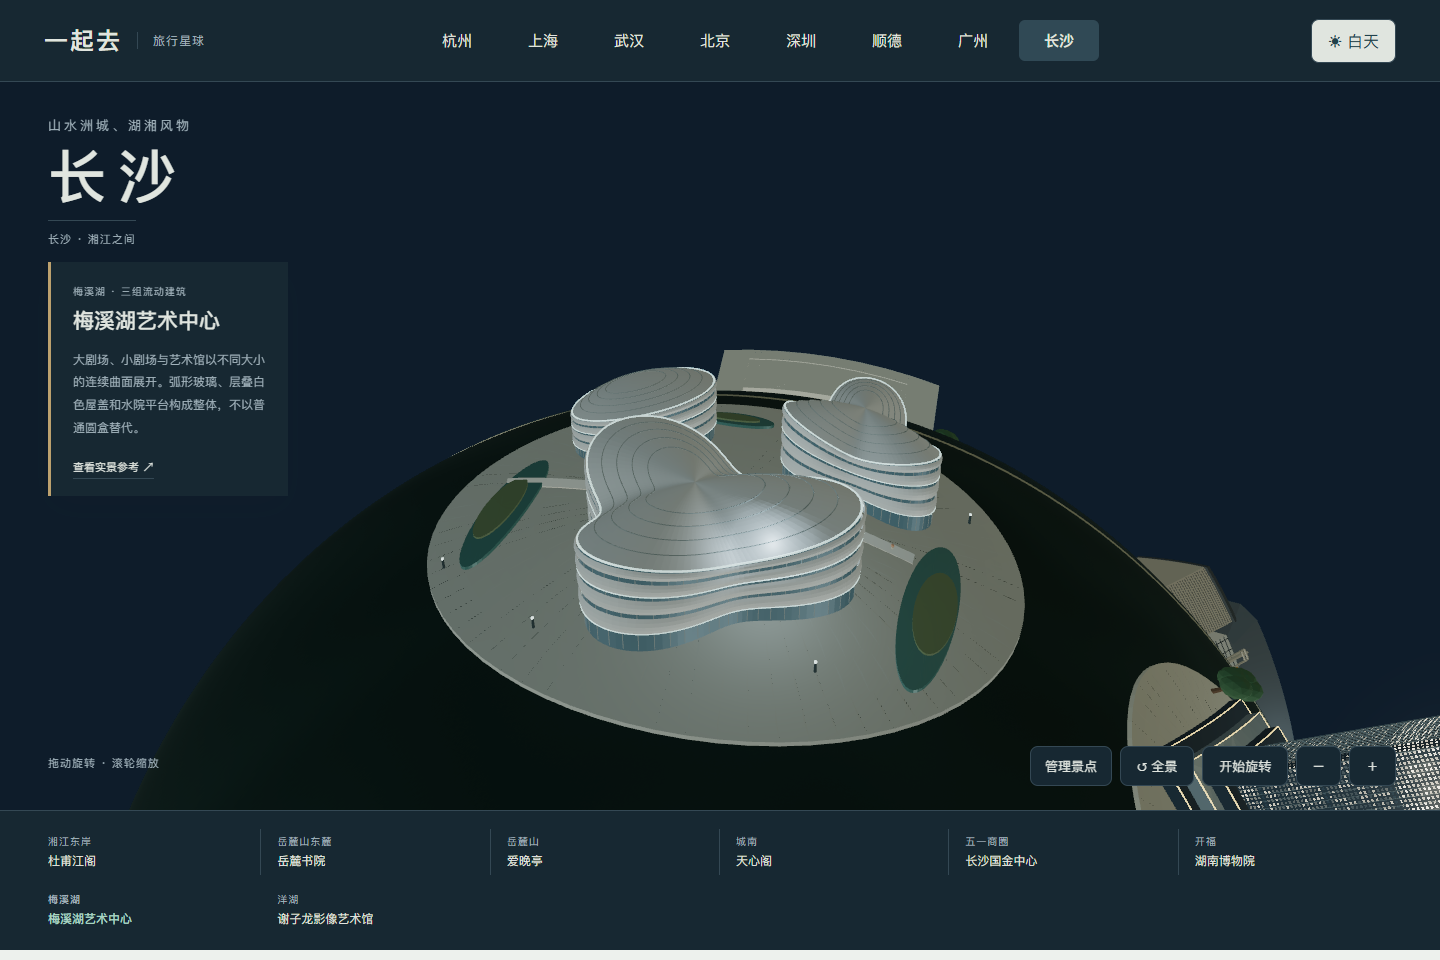
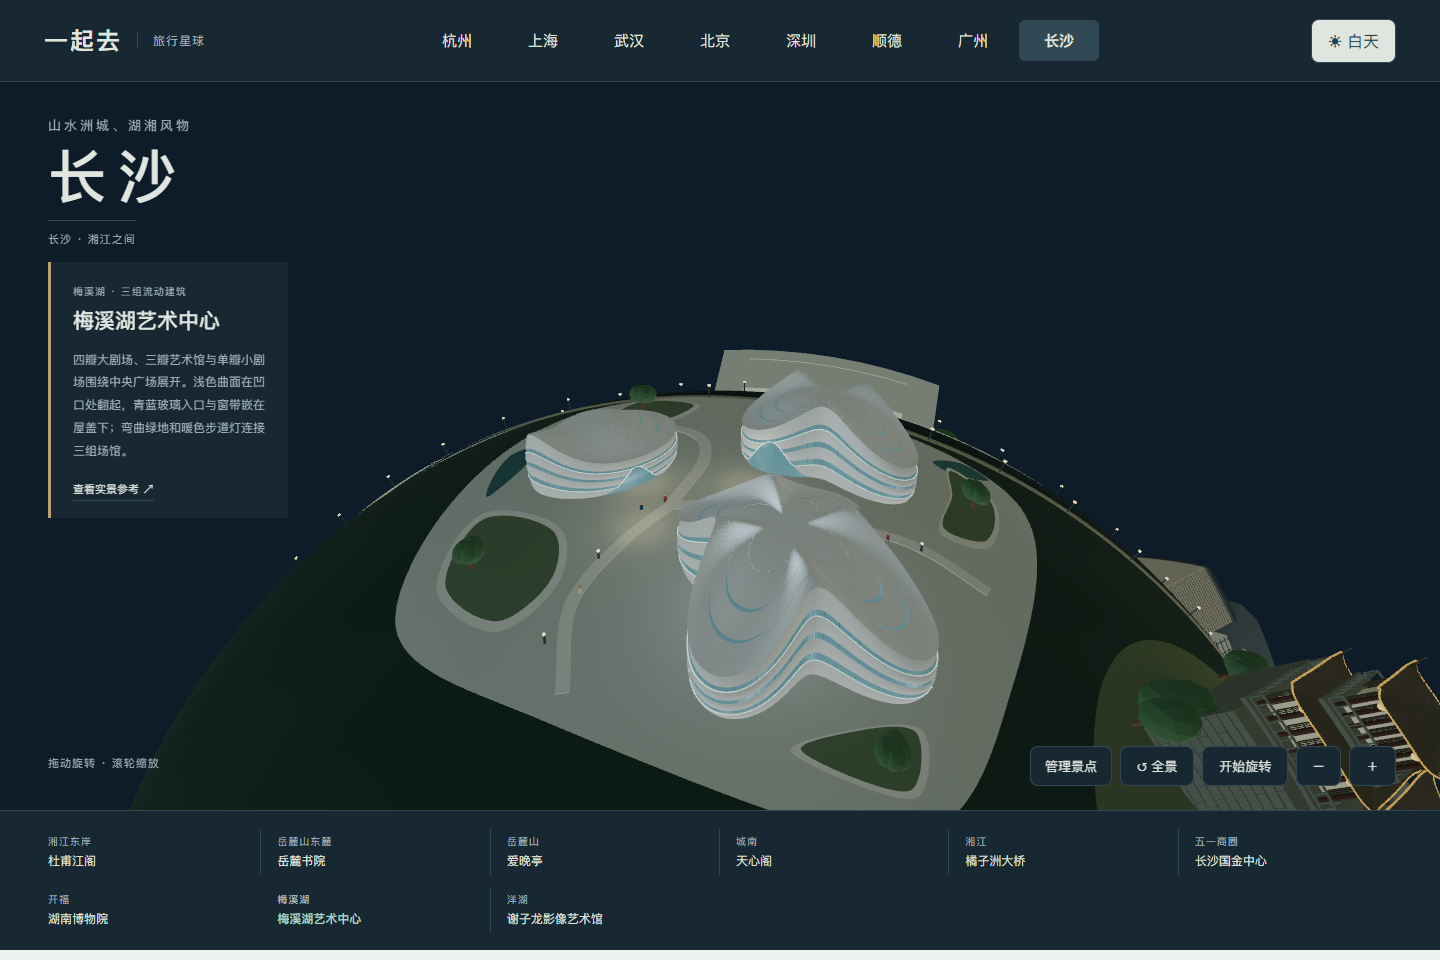
Refine Meixi venues, folded roofs and connected forecourt

diff --git a/web/changsha-meixi.js b/web/changsha-meixi.js
@@ -1,0 +1,109 @@
+import * as THREE from 'three';
+import {skin,bollards,people,glow} from './shenzhen-forms.js';
+import {tree} from './wuhan-architecture.js';
+
+const TAU=Math.PI*2;
+const angleDistance=(a,b)=>Math.atan2(Math.sin(a-b),Math.cos(a-b));
+// Three independent buildings surround one public court: four, three and one
+// unequal petals. Concave folds rise; the broad petal ends sweep down and out.
+export const VENUES=[
+  {id:'grand',x:.26,z:.28,r:.295,stretch:1.10,lobes:4,turn:.24,h:.29,entry:-2.45},
+  {id:'gallery',x:.20,z:-.38,r:.225,stretch:1.08,lobes:3,turn:.41,h:.25,entry:2.1},
+  {id:'small',x:-.43,z:-.10,r:.18,stretch:1.28,lobes:1,turn:-.42,h:.20,entry:.55},
+];
+function contour(a,q){
+  const lobe=q.lobes===1?.93+.17*Math.cos(a):.86+.28*Math.cos(q.lobes*a)+.055*Math.sin(a+.3);
+  const asymmetry=q.lobes===1?1:.94+.16*Math.cos(a-.6);
+  const radial=q.r*lobe*asymmetry,xx=Math.cos(a)*radial*q.stretch,zz=Math.sin(a)*radial;
+  return [q.x+xx*Math.cos(q.turn)-zz*Math.sin(q.turn),q.z+xx*Math.sin(q.turn)+zz*Math.cos(q.turn)];
+}
+function fold(a,q){
+  if(q.lobes===1)return .48+.52*Math.exp(-((angleDistance(a,2.45)/.75)**2));
+  const valley=Math.pow((1-Math.cos(q.lobes*a))/2,1.25);return .50+.46*valley;
+}
+function roofHeight(a,r,q){
+  const center=.83,edge=fold(a,q),t=THREE.MathUtils.clamp((r-.22)/.78,0,1),blend=t*t*(3-2*t);
+  return .028+q.h*(center*(1-blend)+edge*blend);
+}
+function point(a,r,y,q){const [x,z]=contour(a,q);return [q.x+(x-q.x)*r,y,q.z+(z-q.z)*r];}
+function venue(k,g,q,p){
+  const glass=k.mat('#477d89',.45,.13,'#9cc7d0');glass.userData.night.intensity=.22;
+  const shell=k.mat('#d8dedb',.84,.06),joint=k.mat('#bac5c1',.90),reveal=k.mat('#809c9e',.72,.08);
+  const roofMaterial=k.mat('#d8dedb',.94,.018);roofMaterial.userData.meixiRoof=q.id;
+  shell.userData.venue=q.id;glass.userData.venue=q.id;
+  const edgeY=a=>roofHeight(a,1,q);
+  const entryCut=a=>.72*Math.exp(-((angleDistance(a+q.turn,q.entry)/.22)**2));
+  const wallPoint=(a,f,offset=0)=>point(a,.95+.05*Math.sin(f*Math.PI)+offset,.024+(edgeY(a)-.024)*f,q);
+  skin(k,g,(u,v)=>wallPoint(u*TAU,v),32,160,glass);
+  for(const [lo,hi]of [[0,.20],[.29,.46],[.53,.70],[.76,1]]){
+    skin(k,g,(u,v)=>{const a=u*TAU,cut=entryCut(a),f=THREE.MathUtils.lerp(Math.max(lo,cut),Math.max(hi,cut),v);return wallPoint(a,f,.007+.006*Math.sin(v*Math.PI));},10,160,shell);
+  }
+  // A closed fan roof avoids the central hole and the extruded-cookie profile.
+  const pos=[q.x,roofHeight(0,0,q),q.z],idx=[];
+  for(let j=1;j<=40;j++)for(let i=0;i<=160;i++){
+    const a=i/160*TAU,r=j/40;pos.push(...point(a,r,roofHeight(a,r,q),q));
+    if(i){const n=1+(j-1)*161+i;if(j===1)idx.push(0,n,n-1);else idx.push(n-162,n-161,n-1,n-161,n,n-1);}
+  }
+  const roofGeo=new THREE.BufferGeometry();roofGeo.setAttribute('position',new THREE.Float32BufferAttribute(pos,3));roofGeo.setIndex(idx);roofGeo.computeVertexNormals();k.mesh(g,roofGeo,roofMaterial);
+  // Sparse curved panel joints stay quiet. Short dark skylight slits belong to
+  // the individual petals, rather than full concentric circles around the roof.
+  for(const radius of [.40,.62,.82])k.line(g,Array.from({length:161},(_,i)=>{const a=i/160*TAU;return point(a,radius,roofHeight(a,radius,q)+.001,q);}),.00045,joint,true);
+  const skylights=[];
+  for(let l=0;l<q.lobes;l++)for(const r of [.62,.79]){
+    const center=l*TAU/q.lobes,span=q.lobes===1?.98:.68;
+    skin(k,g,(u,v)=>{const a=center+(u-.5)*span,rr=r+(v-.5)*.022*Math.sin(u*Math.PI);return point(a,rr,roofHeight(a,rr,q)+.0016,q);},4,28,glass);skylights.push([center,r]);
+  }
+  for(let i=0;i<54;i++){
+    const a=i/54*TAU;
+    for(const [lo,hi]of [[.20,.29],[.46,.53],[.70,.76]])k.beam(g,wallPoint(a,lo,.001),wallPoint(a,hi,.001),.0007,reveal,4);
+  }
+  // The high glazed entry faces the shared court; mullions follow its arch.
+  for(let i=-4;i<=4;i++){
+    const a=q.entry-q.turn+i*.035,top=entryCut(a);
+    if(top>.05)k.beam(g,wallPoint(a,.015,.001),wallPoint(a,top,.001),.0011,joint,4);
+  }
+  for(const f of [.20,.70]){
+    const strip=[];for(let i=0;i<=160;i++){const a=i/160*TAU;strip.push(wallPoint(a,Math.max(f,entryCut(a)),.014));}k.line(g,strip,.0011,p.cool,true);
+  }
+  const outline=Array.from({length:160},(_,i)=>contour(i/160*TAU,q));return {...q,outline,skylights};
+}
+function smoothOutline(points){const curve=new THREE.CatmullRomCurve3(points.map(([x,z])=>new THREE.Vector3(x,0,z)),true,'centripetal');return curve.getPoints(128).slice(0,-1).map(v=>[v.x,v.z]);}
+function flatPatch(k,g,points,y,mat){
+  const shape=new THREE.Shape(points.map(([x,z])=>new THREE.Vector2(x,-z))),geo=new THREE.ShapeGeometry(shape,32);geo.rotateX(-Math.PI/2);geo.translate(0,y,0);return k.mesh(g,geo,mat);
+}
+export function meixi(k){
+  const g=new THREE.Group(),p={stone:k.mat('#bcc4ba',.96),curb:k.mat('#d4d9ce',.92),green:k.mat('#72886a',.96),water:k.mat('#517f7d',.55,.10),cool:glow(k,'#c5e3df',.50,3,.30),warm:glow(k,'#e8d3ad',.70)},buildings=[];
+  p.stone.userData.groundSurface=true;
+  const site=smoothOutline([[-.73,.50],[-.18,.73],[.69,.69],[.83,.24],[.74,-.59],[.12,-.76],[-.69,-.55]].reverse());
+  // Regular radial subdivisions keep the slab flush when wrapped onto the globe.
+  const pos=[0,.016,0],idx=[];
+  for(let ring=1;ring<=30;ring++)for(let i=0;i<=128;i++){
+    const [x,z]=site[i%128];pos.push(x*ring/30,.016,z*ring/30);
+    if(i){const n=1+(ring-1)*129+i;if(ring===1)idx.push(0,n,n-1);else idx.push(n-130,n-129,n-1,n-129,n,n-1);}
+  }
+  const floor=new THREE.BufferGeometry();floor.setAttribute('position',new THREE.Float32BufferAttribute(pos,3));floor.setIndex(idx);floor.computeVertexNormals();k.mesh(g,floor,p.stone);
+  for(const q of VENUES)buildings.push(venue(k,g,q,p));
+  const beds=[
+    [[-.67,.12],[-.39,.18],[-.31,.38],[-.40,.53],[-.65,.41]],
+    [[-.52,-.48],[-.32,-.42],[-.27,-.60],[-.49,-.63]],
+    [[.54,-.58],[.69,-.48],[.70,-.20],[.58,-.17],[.57,-.39]],
+    [[.65,.47],[.67,.62],[.38,.64],[.47,.56]],
+  ];
+  for(const control of beds){
+    const border=smoothOutline(control);flatPatch(k,g,border,.023,p.curb);const center=border.reduce((a,b)=>[a[0]+b[0]/border.length,a[1]+b[1]/border.length],[0,0]);flatPatch(k,g,border.map(([x,z])=>[center[0]+(x-center[0])*.87,center[1]+(z-center[1])*.87]),.027,p.green);
+  }
+  // Dark sunken courts sit at the perimeter, leaving the central plaza open.
+  for(const control of [ [[-.70,.03],[-.66,-.10],[-.67,-.27],[-.75,-.22]], [[.57,-.67],[.66,-.63],[.55,-.55],[.49,-.58]] ])flatPatch(k,g,smoothOutline(control),.020,p.water);
+  const paths=[[[-.17,.66],[-.25,.42],[-.20,.20],[-.13,.035]],[[-.68,-.42],[-.20,-.36],[-.12,-.22],[-.13,.035]],[[.73,-.03],[.51,-.08],[.26,-.04],[.04,-.02],[-.13,.035]]];
+  for(const controls of paths){
+    const curve=new THREE.CatmullRomCurve3(controls.map(([x,z])=>new THREE.Vector3(x,.019,z)),false,'centripetal');
+    const points=curve.getPoints(70);for(let i=0;i<points.length-1;i++){const a=points[i],b=points[i+1],mid=a.clone().add(b).multiplyScalar(.5),m=k.box(g,.035,.002,a.distanceTo(b)+.0005,p.curb,...mid.toArray());m.rotation.y=Math.atan2(b.x-a.x,b.z-a.z);}
+  }
+  for(const [x,z]of [[-.58,.34],[-.43,-.52],[.64,-.37],[.60,.59]])tree(k,g,x,.027,z,.07);
+  bollards(k,g,[[-.27,.54],[-.24,.27],[-.57,-.35],[-.22,-.22],[.54,-.07],[.29,-.07],[.57,.58]],'#e7d5b4');people(k,g,[[-.15,.02],[-.20,.07],[-.24,.39],[.40,-.05],[.45,-.06],[.02,-.04]]);
+  g.userData={venues:buildings,site,paths,centralCourt:[-.13,.035]};k.merge(g);
+  for(const [x,z]of [[-.18,.14],[.04,-.12],[-.25,-.06]]){
+    const light=new THREE.PointLight('#f5dab4',0,.38,2);light.position.set(x,.09,z);light.userData.nightIntensity=.006;g.add(light);
+  }
+  return g;
+}

diff --git a/web/changsha-modern.js b/web/changsha-modern.js
@@ -1,5 +1,5 @@
 import * as THREE from 'three';
-import {skin,plaza,bollards,people,glow} from './shenzhen-forms.js';
+import {plaza,bollards,people,glow} from './shenzhen-forms.js';
 import {plaque,tree} from './wuhan-architecture.js';
 
 function bevelRect(w,d,b=.016){return [[-w/2+b,d/2],[w/2-b,d/2],[w/2,d/2-b],[w/2,-d/2+b],[w/2-b,-d/2],[-w/2+b,-d/2],[-w/2,-d/2+b],[-w/2,d/2-b]];}
@@ -30,45 +30,6 @@ export function ifs(k){
   plaque(k,g,'IFS 国金中心',.21,.045,0,.104,.229);
   for(const x of [-.57,.57])tree(k,g,x,.015,.23,.09);
   bollards(k,g,[[-.52,.36],[-.20,.40],[.20,.40],[.52,.36]],'#eace99');people(k,g,[[-.21,.31],[.18,.35],[.31,.31],[.40,.33]]);
-  return k.merge(g);
-}
-
-function petalOutline(a,s){return s*(1+.26*Math.cos(a*3)+.065*Math.sin(a*2));}
-function fluidVenue(k,g,{x,z,s,stretch=1,turn=0,height=.30,lobes=3},white,glass,edge,seam){
-  const point=(a,r,y)=>{const radius=lobes===1?s*(1+.16*Math.cos(a)):petalOutline(a,s),xx=Math.cos(a)*radius*r*stretch,zz=Math.sin(a)*radius*r;return [x+xx*Math.cos(turn)-zz*Math.sin(turn),y,z+xx*Math.sin(turn)+zz*Math.cos(turn)];};
-  const roofY=(a,r)=>.045+height*(.76+.15*Math.cos(a*lobes)*r)+.045*(1-r*r);
-  // Continuous glass walls sit below a closed, gently rising folded roof.
-  skin(k,g,(u,v)=>{const a=u*Math.PI*2;return point(a,1,.025+(roofY(a,1)-.025)*v);},10,128,glass);
-  // Broad white folds dominate the actual buildings. Glazing sits in recessed
-  // horizontal gaps rather than forming the whole external wall.
-  for(const [lo,hi]of [[.24,.43],[.48,.65],[.70,.85],[.90,1]]){
-    skin(k,g,(u,v)=>{const a=u*Math.PI*2,f=lo+(hi-lo)*v;return point(a,1.018+.013*Math.sin(v*Math.PI),.025+(roofY(a,1)-.025)*f);},4,128,white);
-  }
-  skin(k,g,(u,v)=>{const a=u*Math.PI*2,r=.001+.999*v;return point(a,r,roofY(a,r));},22,128,white);
-  for(let ring=0;ring<5;ring++){
-    const r=1-ring*.145;
-    k.line(g,Array.from({length:129},(_,i)=>{const a=i/128*Math.PI*2;return point(a,r,roofY(a,r)+.0015);}),ring===0?.0027:.0012,ring===0?edge:seam,true);
-  }
-  // The lower ribbons fold with the same perimeter rather than floating flat rings.
-  for(const f of [.24,.70])k.line(g,Array.from({length:129},(_,i)=>{const a=i/128*Math.PI*2;return point(a,1.021,.025+(roofY(a,1)-.025)*f);}),.0015,edge,true);
-  for(let i=0;i<64;i++){const a=i/64*Math.PI*2;k.beam(g,point(a,1.001,.030),point(a,1.001,roofY(a,1)-.004),.001,seam,4);}
-}
-export function meixi(k){
-  const g=new THREE.Group(),base=plaza(k,g,.83,.69,'#bdc3b9'),white=k.mat('#d1d8d4',.67,.12),glass=k.mat('#365b65',.49,.16,'#99bdc4'),edge=glow(k,'#c9e3df',.60,3,.38),seam=k.mat('#9caaa6',.70,.14);glass.userData.night.intensity=.12;
-  base.userData.groundSurface=true;
-  fluidVenue(k,g,{x:.02,z:.25,s:.23,stretch:1.38,turn:-.22,height:.27},white,glass,edge,seam);
-  fluidVenue(k,g,{x:.32,z:-.29,s:.18,stretch:1.10,turn:.50,height:.23},white,glass,edge,seam);
-  fluidVenue(k,g,{x:-.37,z:-.29,s:.17,stretch:1.23,turn:-.35,height:.18,lobes:1},white,glass,edge,seam);
-  // A connected pedestrian forecourt surrounds the venues; only small edge
-  // pools occupy water, matching the aerial view rather than an invented lake.
-  const water=k.mat('#5a8982',.50,.10),green=k.mat('#788c69');
-  for(const [x,z,rx,rz]of [[-.60,.10,.07,.24],[.60,.14,.07,.25],[-.11,-.49,.12,.047]]){
-    const pool=k.cyl(g,rx,rx,.010,water,x,.026,z,48);pool.scale.z=rz/rx;
-    const bed=k.cyl(g,rx*.75,rx*.75,.016,green,x+(x<0?-.015:.015),.029,z,48);bed.scale.z=rz/rx*.75;
-  }
-  const path=k.mat('#d4d6ca');
-  k.line(g,[[-.66,.023,-.03],[-.20,.023,-.01],[.02,.023,-.06],[.53,.023,-.02]],.018,path);
-  bollards(k,g,[[-.68,.32],[-.32,.50],[.38,.43],[.64,-.30]],'#cee1dc');people(k,g,[[-.15,-.02],[.04,-.07],[.47,-.02]]);
   return k.merge(g);
 }
 

diff --git a/web/changsha-landmarks.js b/web/changsha-landmarks.js
@@ -1,5 +1,6 @@
 import {yuelu,aiwan,dufu,tianxin} from './changsha-heritage.js';
-import {ifs,meixi,hunanMuseum,xie} from './changsha-modern.js';
+import {ifs,hunanMuseum,xie} from './changsha-modern.js';
+import {meixi} from './changsha-meixi.js';
 import {juzhouBridge} from './changsha-bridge.js';
 
 export const LANDMARKS=[
@@ -10,7 +11,7 @@ export const LANDMARKS=[
   {id:'juzhouBridge',name:'橘子洲大桥',area:'湘江 · 洲岛与桥梁',x:0,z:-.15,height:.23,distance:3.5,view:[.18,1.25,-1.8],waterfront:true,description:'连续低拱横跨湘江，环形匝道落向狭长洲岛。两岸步道、桥上车流和克制的夜间灯带，连接山麓与城市；按航拍关系作缩微表达。',source:'https://www.icswb.com/h/152/20160518/415626.html'},
   {id:'ifs',name:'长沙国金中心',area:'五一商圈 · 双塔与露台',x:1.12,z:-1.02,hemisphere:1,height:1.67,distance:3.5,view:[.55,.62,1.8],description:'两座塔楼保持明显高低差，保留深蓝玻璃、退台塔冠和竖向构件。裙楼露台与暖色店铺围绕双塔，窗灯和轮廓光缓慢变化。',source:'https://www.wongtung.com/cn/projects/changsha-international-finance-square-2/'},
   {id:'museum',name:'湖南博物院',area:'开福 · 悬挑屋盖与玻璃大厅',x:-1.10,z:.80,hemisphere:-1,height:.49,distance:2.8,view:[.4,.55,1.7],description:'宽大的深色悬挑屋盖、中央通高玻璃大厅和两侧浅色展馆体量。台阶、框架与横向遮阳线条保留实景的主要结构。',source:'https://travel.voc.com.cn/article/201712/201712010956426419.html'},
-  {id:'meixi',name:'梅溪湖艺术中心',area:'梅溪湖 · 三组流动建筑',x:1.12,z:-1.01,hemisphere:-1,height:.47,distance:3.0,view:[.5,1.1,1.5],description:'大剧场、小剧场与艺术馆以不同大小的连续曲面展开。弧形玻璃、层叠白色屋盖和水院平台构成整体，不以普通圆盒替代。',source:'https://www.biad.com.cn/project/id/8/'},
+  {id:'meixi',name:'梅溪湖艺术中心',area:'梅溪湖 · 三组流动建筑',x:1.12,z:-1.01,hemisphere:-1,height:.47,distance:3.0,view:[.5,1.1,1.5],description:'四瓣大剧场、三瓣艺术馆与单瓣小剧场围绕中央广场展开。浅色曲面在凹口处翻起，青蓝玻璃入口与窗带嵌在屋盖下；弯曲绿地和暖色步道灯连接三组场馆。',source:'https://www.biad.com.cn/project/id/8/'},
   {id:'xie',name:'谢子龙影像艺术馆',area:'洋湖 · 清水混凝土与水院',x:-1.12,z:-1.05,hemisphere:-1,height:.42,distance:2.8,view:[.45,.68,1.5],description:'浅色混凝土悬挑体量、狭长水平窗和架空水院，窄步道穿过水面，楼梯藏在入口下方。夜间保留克制的檐下照明。',source:'https://xjxq.hunan.gov.cn/hnxjxq/sytpxw/202003/t20200318_11814798.html'},
 ].map(item=>({...item,grounded:true}));
 const builders={dufu,yuelu,aiwan,tianxin,juzhouBridge,ifs,museum:hunanMuseum,meixi,xie};

diff --git a/web/changsha-landscape.js b/web/changsha-landscape.js
@@ -60,7 +60,7 @@ export function createChangshaLandscape(k,{radius,landmarks,channelX,terrain}){
   // transform instead of guessed world coordinates that can cross the water.
   landmarks.forEach((model,id)=>{
     if(id==='juzhouBridge')return;
-    const p=model.localToWorld(new THREE.Vector3(0,0,id==='yuelu'?.68:.51)).normalize(),a=Math.atan2(p.z,p.y),x=channelX(a)+Math.sign(p.x)*.267,yz=Math.sqrt(radius*radius-x*x),end=new THREE.Vector3(x,Math.cos(a)*yz,Math.sin(a)*yz).normalize();
+    const p=model.localToWorld(new THREE.Vector3(0,0,id==='yuelu'?.68:id==='meixi'?.72:.51)).normalize(),a=Math.atan2(p.z,p.y),x=channelX(a)+Math.sign(p.x)*.267,yz=Math.sqrt(radius*radius-x*x),end=new THREE.Vector3(x,Math.cos(a)*yz,Math.sin(a)*yz).normalize();
     const route=[];for(let i=0;i<=56;i++){const n=p.clone().lerp(end,i/56).normalize(),q=n.clone().multiplyScalar(radius),h=n.y>0?ridgeHeight(q.x,q.z):0;route.push(n.multiplyScalar(radius+h+.011));}
     ribbon(route,.036,stone);
   });

diff --git a/tools/destination-check.py b/tools/destination-check.py
@@ -8,7 +8,7 @@ city=sys.argv[1] if len(sys.argv)>1 else 'beijing'
 configs={'beijing':{'count':12,'focus':'jingshan','first':'palace','night':['palace','tiananmen','jingshan','drum','heaven','summer','nest','watercube','cctv'],'routes':['','shanghai-trip.html','wuhan-trip.html','shanghai.html','wuhan.html','shenzhen.html']},'shenzhen':{'count':12,'focus':'talent','first':'pingan','night':['pingan','bamboo','diwang','civic','cocoon','lianhua','kk100','wheel','window','dapeng','minghua','talent'],'routes':['','shanghai-trip.html','wuhan-trip.html','shanghai.html','wuhan.html','beijing.html']}}
 configs['shunde']={'count':8,'focus':'baolin','first':'qinghui','night':['qinghui','shunfeng','hem','huagai','fengjian','theatre','bijiang','baolin'],'routes':['','shanghai-trip.html','wuhan-trip.html','shanghai.html','wuhan.html','beijing.html','shenzhen.html']}
 configs['guangzhou']={'count':10,'focus':'haixin','first':'canton','night':['canton','twins','opera','museum','memorial','chen','cathedral','rams','haixin','huacheng'],'routes':['','shanghai-trip.html','wuhan-trip.html','shanghai.html','wuhan.html','beijing.html','shenzhen.html','shunde.html']}
-configs['changsha']={'count':9,'focus':'juzhouBridge','first':'dufu','night':['dufu','yuelu','aiwan','tianxin','juzhouBridge','ifs','museum','meixi','xie'],'routes':['','shanghai-trip.html','wuhan-trip.html','shanghai.html','wuhan.html','beijing.html','shenzhen.html','shunde.html','guangzhou.html']}
+configs['changsha']={'count':9,'focus':'meixi','first':'dufu','night':['dufu','yuelu','aiwan','tianxin','juzhouBridge','ifs','museum','meixi','xie'],'routes':['','shanghai-trip.html','wuhan-trip.html','shanghai.html','wuhan.html','beijing.html','shenzhen.html','shunde.html','guangzhou.html']}
 assert city in configs, 'Unknown city viewer'
 config=configs[city];count=config['count'];focus=config['focus'];first=config['first']
 out=root/'test-results'/('destination-'+city);out.mkdir(parents=True,exist_ok=True)

diff --git a/README.md b/README.md
@@ -1,6 +1,6 @@
 # 一起去 · Travel Planet
 
-用可旋转的 3D 城市星球发现景点，再和朋友一起决定怎么旅行。当前版本 **0.24.0**，支持桌面和手机网页。
+用可旋转的 3D 城市星球发现景点，再和朋友一起决定怎么旅行。当前版本 **0.25.0**，支持桌面和手机网页。
 
 **[上海旅行 · 在线体验](https://43.139.249.151/travel/shanghai-trip.html)** · **[杭州旅行](https://43.139.249.151/travel/)** · **[武汉旅行](https://43.139.249.151/travel/wuhan-trip.html)** · **[武汉纯地图](https://43.139.249.151/travel/wuhan.html)** · **[上海纯地图](https://43.139.249.151/travel/shanghai.html)** · **[北京地图](https://43.139.249.151/travel/beijing.html)** · **[深圳地图](https://43.139.249.151/travel/shenzhen.html)** · **[顺德地图](https://43.139.249.151/travel/shunde.html)** · **[广州地图](https://43.139.249.151/travel/guangzhou.html)** · **[长沙地图](https://43.139.249.151/travel/changsha.html)**
 
@@ -27,7 +27,7 @@
 
 广州包含 **10 组具名地标**：广州塔、珠江新城东西塔、广州大剧院、广东省博物馆、中山纪念堂、陈家祠、石室圣心大教堂、五羊石像、海心桥和花城广场。单道斜拱桥跨越珠江，两岸步道连接场馆与文化景点，花城广场接通大剧院、省博与东西塔；提供夜景、自由旋转、手机触控与整组管理；广州当前未接入多人旅行。详见 [广州造型参考](docs/GUANGZHOU_REFERENCES.md)。
 
-长沙包含 **9 组具名地标**：岳麓书院、爱晚亭、杜甫江阁、天心阁、湖南博物院、梅溪湖艺术中心、谢子龙影像艺术馆、国金中心双塔和橘子洲大桥。包含连续山地、山林、跨江低拱与环形匝道、两岸步道和湘江洲地、双半球布局、日夜、自由旋转、手机与整组管理；长沙尚未接入多人旅行。详见 [长沙造型参考](docs/CHANGSHA_REFERENCES.md)。
+长沙包含 **9 组具名地标**：岳麓书院、爱晚亭、杜甫江阁、天心阁、湖南博物院、梅溪湖艺术中心、谢子龙影像艺术馆、国金中心双塔和橘子洲大桥。梅溪湖按四瓣大剧场、三瓣艺术馆和单瓣小剧场分出轮廓与翻卷屋盖。包含连续山地、山林、跨江低拱与环形匝道、两岸步道和湘江洲地、双半球布局、日夜、自由旋转、手机与整组管理；长沙尚未接入多人旅行。详见 [长沙造型参考](docs/CHANGSHA_REFERENCES.md)。
 
 ## 界面预览
 

diff --git a/docs/CHANGSHA_REFERENCES.md b/docs/CHANGSHA_REFERENCES.md
@@ -13,7 +13,7 @@
 | 橘子洲大桥 | 连续低拱、桥墩、双向车道、岛上环形匝道与狭长绿洲 | [长沙晚报航拍](https://www.icswb.com/h/152/20160518/415626.html)、[湖南省橘子洲资料](https://www.hunan.gov.cn/hnszf/c101474/202108/t20210827_20403826.html) |
 | 长沙国金中心 | 高低双塔、深蓝玻璃、退台塔冠、竖向构件与商场裙楼 | [建筑事务所资料](https://www.wongtung.com/cn/projects/changsha-international-finance-square-2/)、[整体建筑实拍](https://www.kinlong.com/case-landmark/9.html) |
 | 湖南博物院 | 宽大的深色悬挑屋盖、通高玻璃、两侧浅色展馆与下层入口 | [正立面实拍](https://travel.voc.com.cn/article/201712/201712010956426419.html) |
-| 梅溪湖艺术中心 | 大剧场、小剧场与艺术馆三组流动体量、白色折带、玻璃缝隙和连通前场 | [北京市建筑设计研究院](https://www.biad.com.cn/project/id/8/)、[航拍照片](https://www.hunantoday.cn/news/xhn/202609/33876599.html) |
+| 梅溪湖艺术中心 | 四瓣大剧场、三瓣艺术馆、单瓣小剧场；凹口翻卷屋盖、青蓝玻璃、短天窗、弯曲绿地和连通前场 | [北京市建筑设计研究院](https://www.biad.com.cn/project/id/8/)、[航拍照片](https://www.hunantoday.cn/news/xhn/202609/33876599.html) |
 | 谢子龙影像艺术馆 | 浅色清水混凝土、悬挑与架空水院、狭长窗、窄桥与入口楼梯 | [湖南湘江新区照片](https://xjxq.hunan.gov.cn/hnxjxq/sytpxw/202003/t20200318_11814798.html) |
 
 制作前已实际查看照片，修正了屋顶开口、城墙支承、场馆体量相交、玻璃与白色外墙比例。原始照片仅用于观察，未作为贴图或打包至仓库。来源页面可用性由原网站决定，不依据这些页面提供票价、开放或预约承诺。
@@ -36,3 +36,8 @@
 ![长沙山水洲城全景](images/changsha-overview.png)
 
 ![橘子洲大桥与两岸](images/changsha-bridge.png)
+
+
+0.25.0 对照设计方三张外部照片重做梅溪湖三馆，区分瓣数、长短和高度，压低过尖的屋盖并保持中央公共通道。屋顶浅色、青蓝玻璃与入口暖光分开处理；射线检测确认屋面闭合、地面朝上、三条广场通道没有被建筑遮断。原先横穿小剧场的通道已绕开。这里仍是缩微外观表达，并非完整场馆测绘；灯光不代表现场灯光秀。
+
+![梅溪湖日景](images/changsha-meixi.png)

diff --git a/docs/TESTING.md b/docs/TESTING.md
@@ -85,3 +85,6 @@ python tools/travel-flow-check.py
 
 
 0.24.0：256 项完整测试和 211 项工作区 JavaScript 语法检查通过。宝林寺新增真实射线检查院落贴地、三孔山门贯通、石阶净空、山体朝向及树木避让。八模块完整浏览器验收通过，含日夜、整组增删与恢复、触屏键盘、320至1440像素布局和 WebGL 故障恢复；宝林寺正面日夜、侧面及320/390画面直接核看。未做物理手机测试。
+
+
+0.25.0：257 项完整测试、212 项工作区语法检查通过。长沙六项专项包含三馆屋面闭合、法线朝向、凹口高差和三条广场通道净空。九组模块日夜、保存与恢复、触屏键盘、320至1440布局、WebGL故障恢复通过独立内存服务；没有业务写入。直接查看最终三馆日夜、390及管理面板，手机仍为浏览器模拟。
